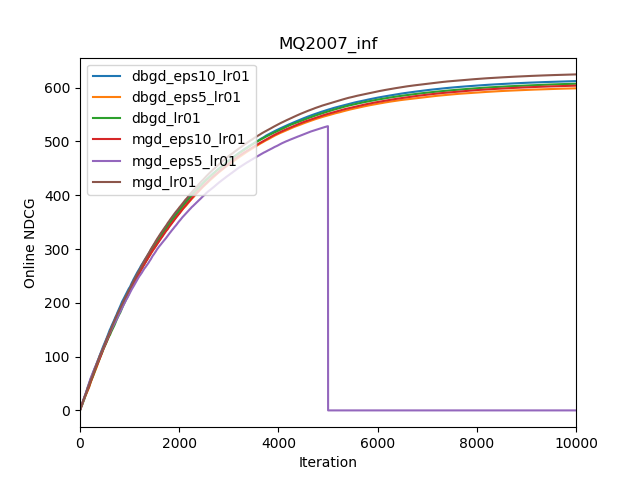
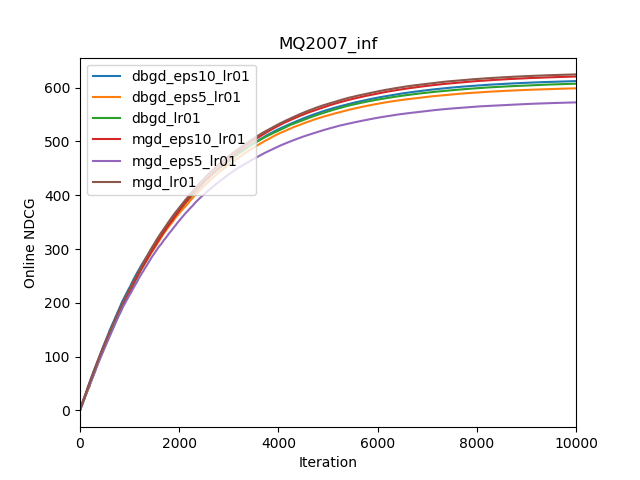
finished graphing results for interleaving noise experiments

diff --git a/graphs/plot_esm7ky.py b/graphs/plot_esm7ky.py
@@ -36,7 +36,7 @@ def main():
                     continue
                 line_obj = json.loads(line)
                 click_model = line_obj["run_details"]["click model"][:3]
-                if click_model != "inf": # generating graphs for inf, nav, per, separately for convenience
+                if click_model != "per": # generating graphs for inf, nav, per, separately for convenience
                     continue
                 run_results = line_obj["run_results"]
                 for it in range(0, len(run_results)-1):
